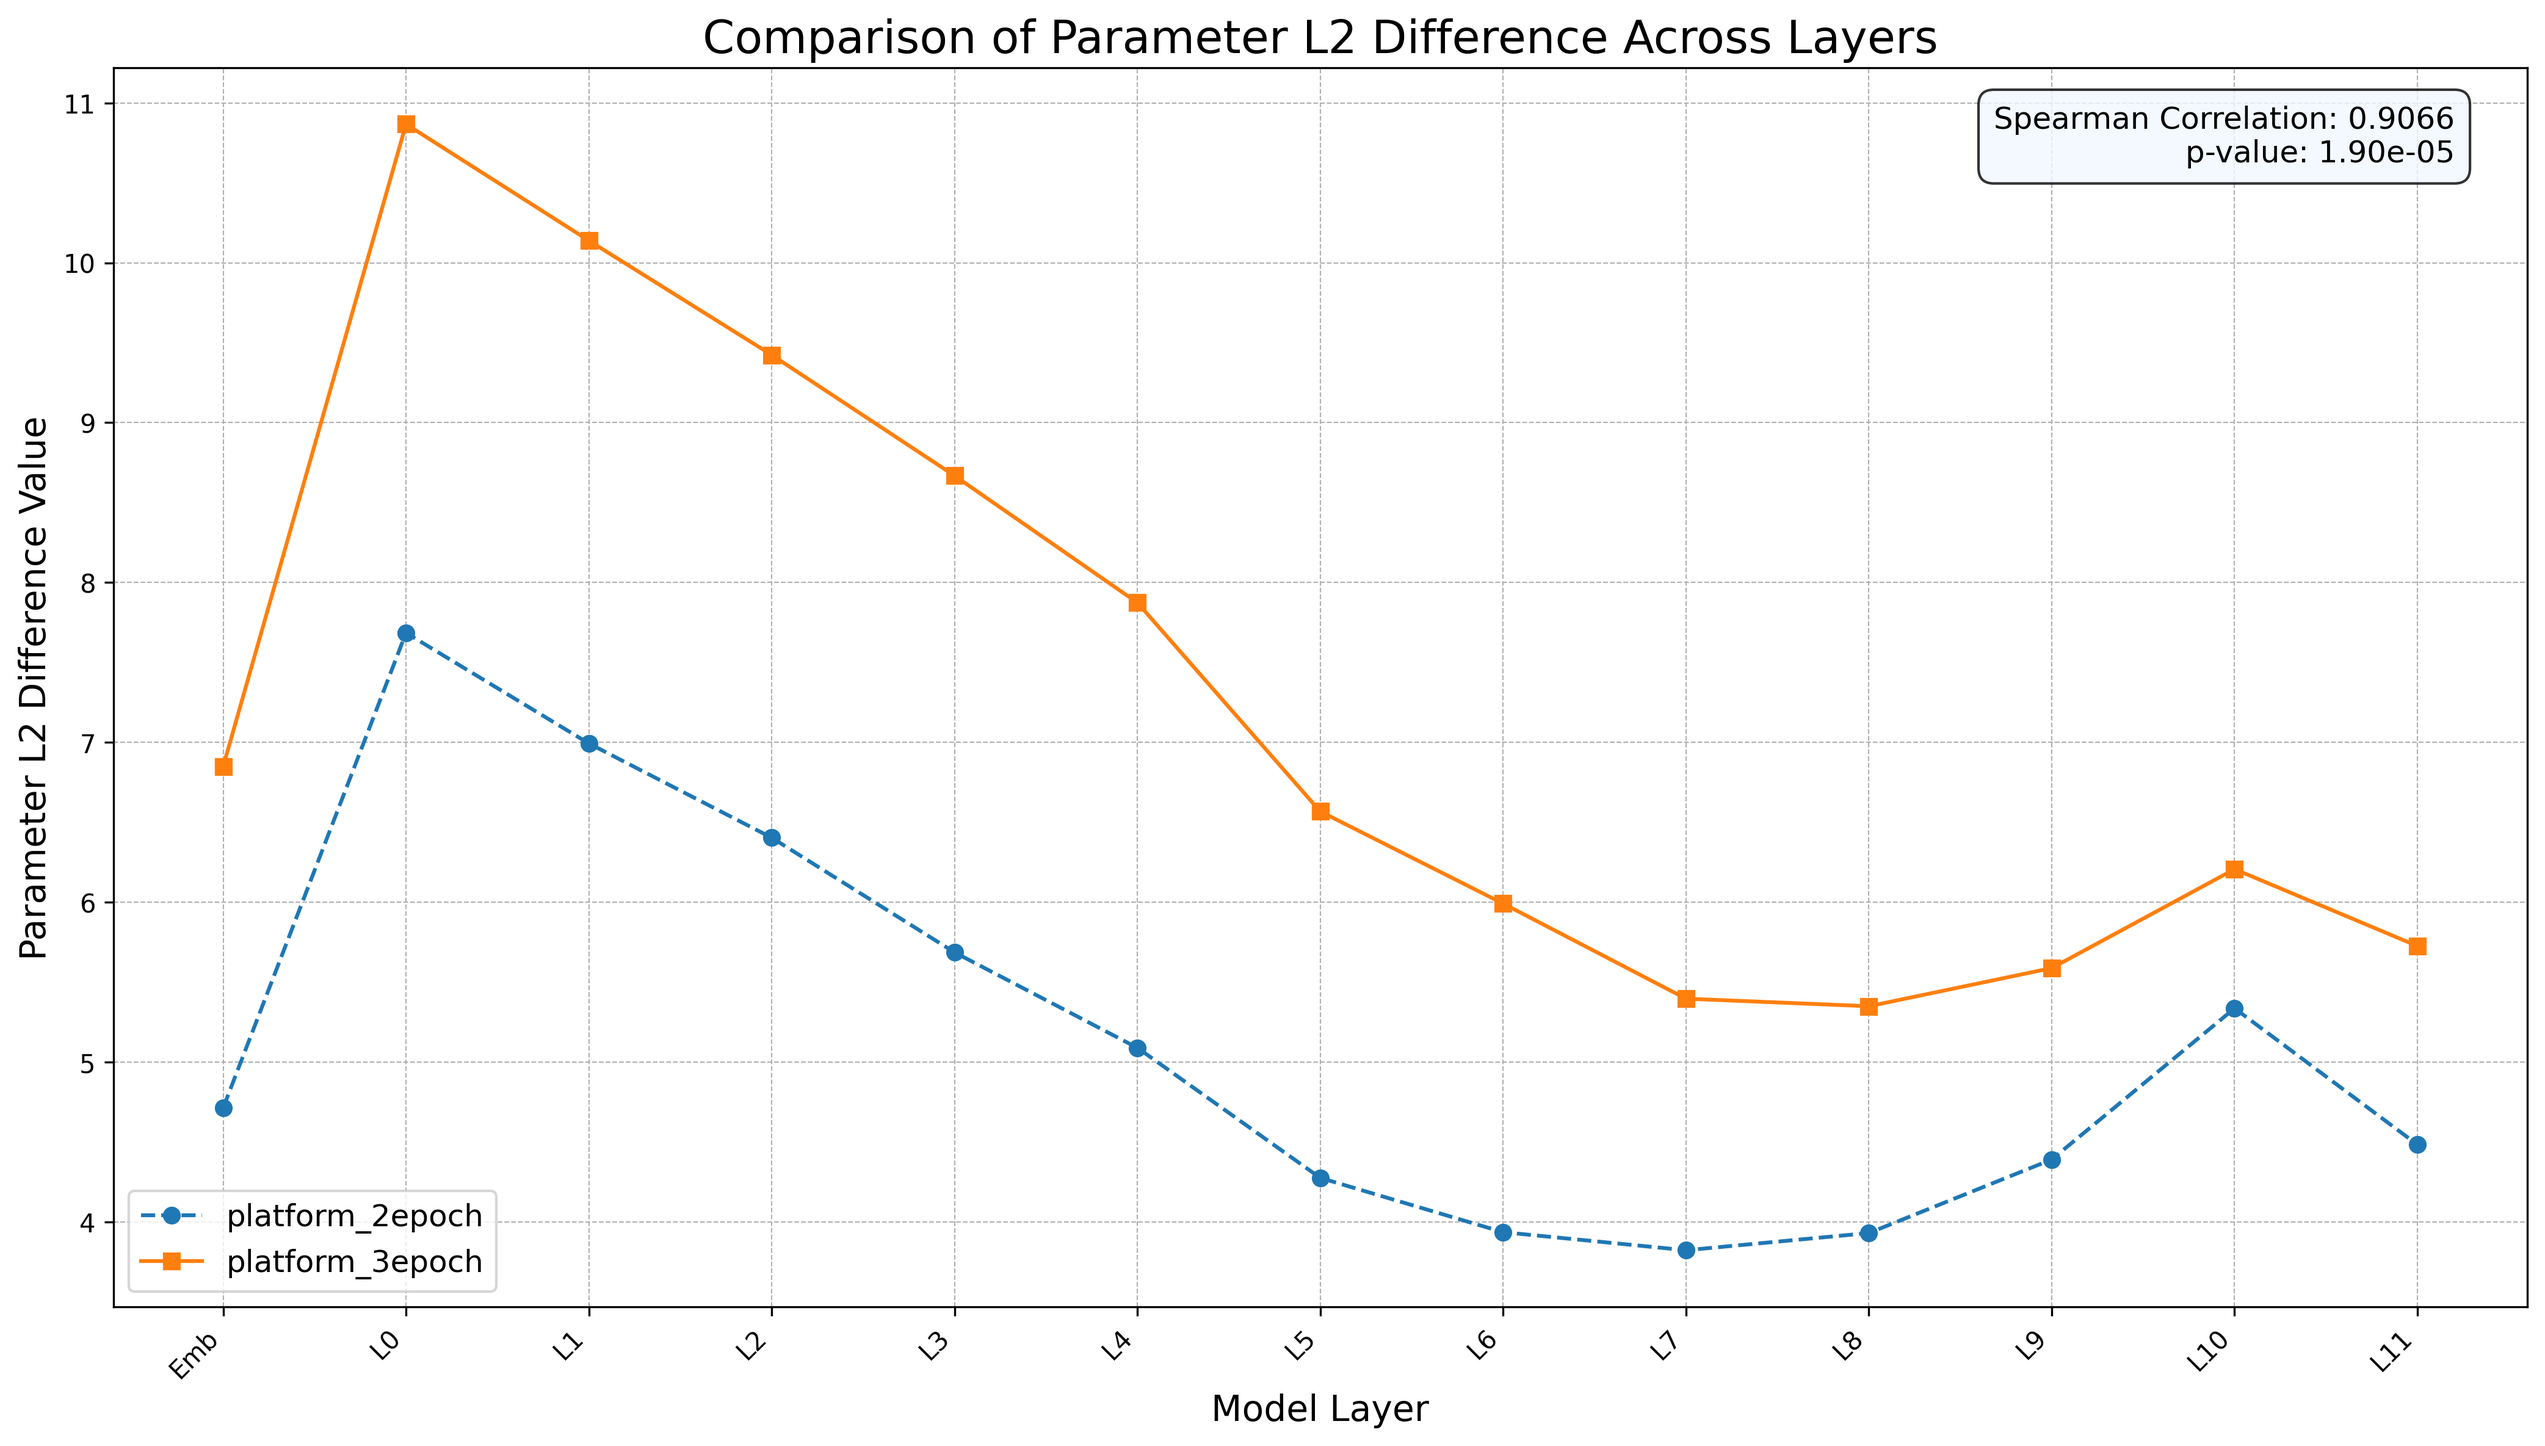
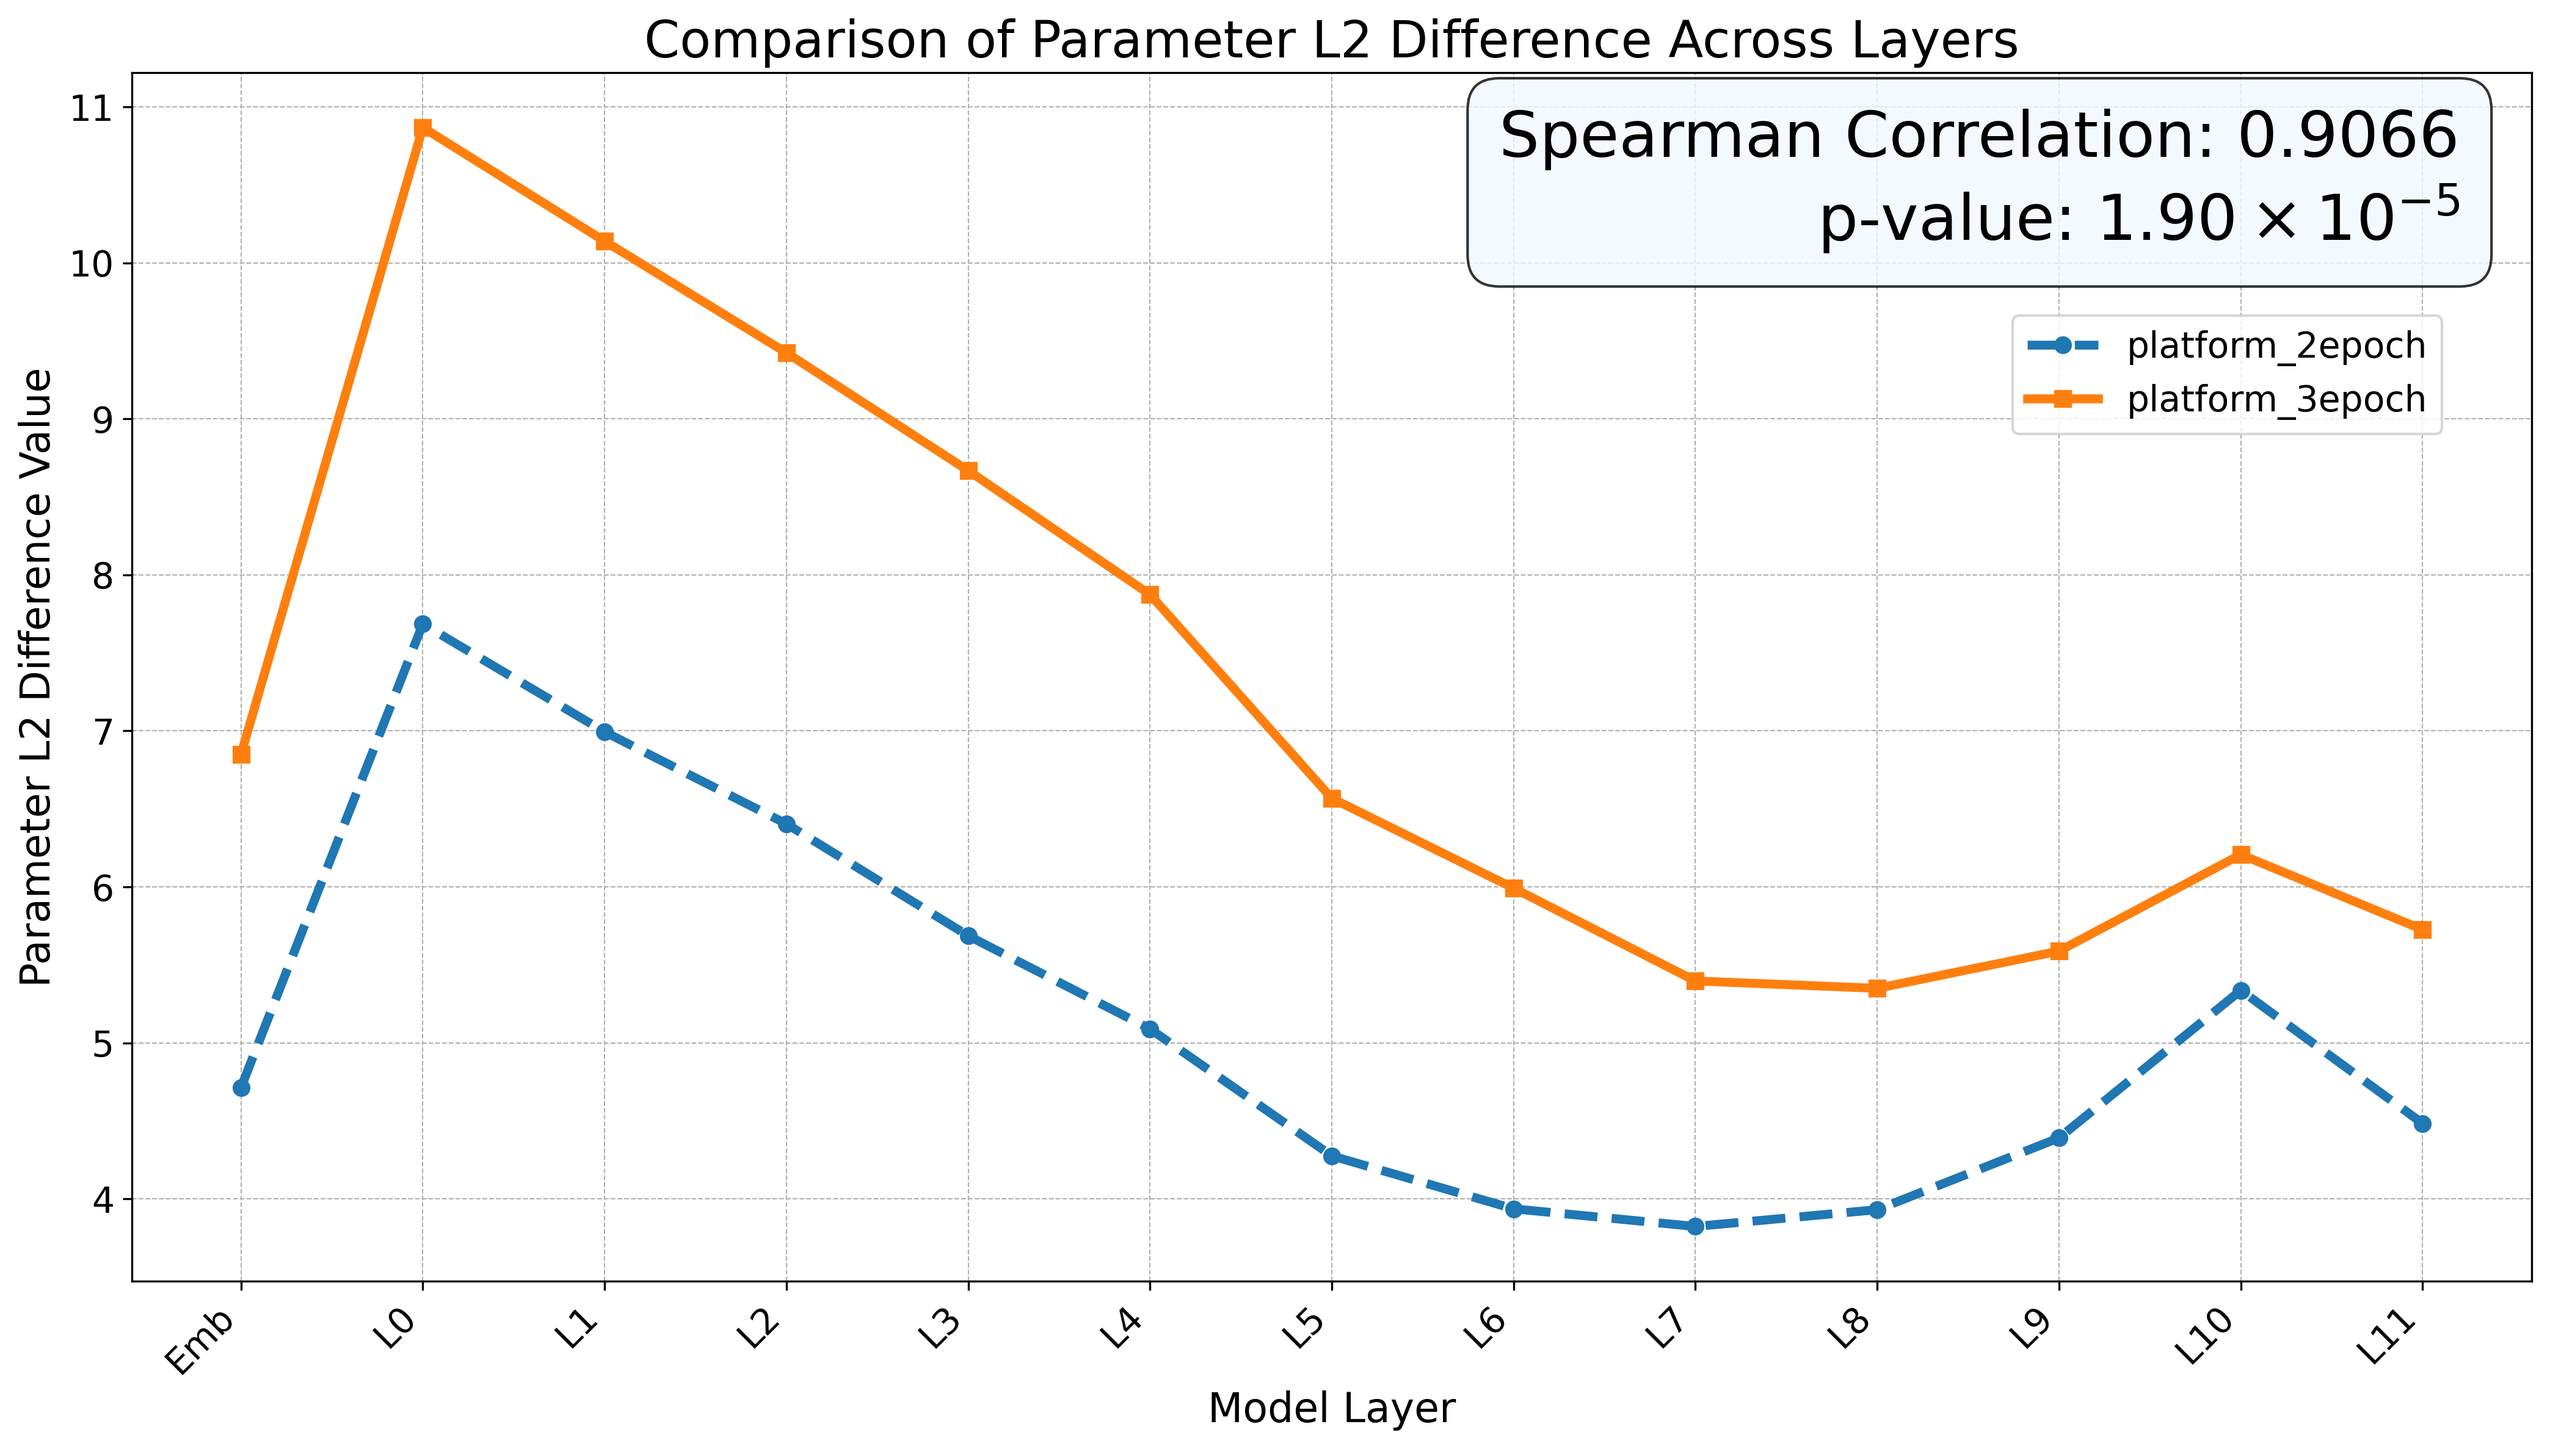
update

diff --git a/Models/ExploratoryStage/draw_spearman_correlation.py b/Models/ExploratoryStage/draw_spearman_correlation.py
@@ -4,45 +4,27 @@ import re
 import matplotlib.pyplot as plt
 
 def natural_sort_key(s):
-    """
-    Creates a key for natural sorting to ensure layers are ordered correctly.
-    e.g. "vivit.encoder.layer.10" -> ("vivit.encoder.layer.", 10)
-    """
+    """Creates a key for natural sorting."""
     match = re.match(r'^(.*?)(\d+)$', s)
     if match:
         prefix, number = match.groups()
         return (prefix, int(number))
-    return (s, -1) # For keys without numbers like "embeddings"
+    return (s, -1)
 
 def transform_legend_label(path_string):
-    """
-    Transforms a file path into a 'gamename_nepoch' format for the plot legend.
-    Example: "./apex/0epoch/..." -> "apex_0epoch"
-    """
+    """Converts file path to gamename_nepoch format."""
     if not isinstance(path_string, str):
         return "N/A"
 
-    # Normalize path separators for consistency
     path_string = path_string.replace('\\', '/')
-    
-    # Extract game name, which is assumed to be the directory before the epoch folder
-    # e.g., in './game/1epoch/file.json', parts would be ['.', 'game', '1epoch', 'file.json']
     parts = path_string.split('/')
     gamename = parts[-3] if len(parts) >= 3 else "unknown"
-
-    # Use regex to find the 'nepoch' string
     match = re.search(r'(\d+epoch)', path_string)
     if match:
-        epoch_str = match.group(1)
-        return f"{gamename}_{epoch_str}"
-    
-    return path_string # Fallback
+        return f"{gamename}_{match.group(1)}"
+    return path_string
 
 def plot_from_json(file_path, output_dir):
-    """
-    Reads data from a specified JSON file, plots a comparison graph,
-    and saves it to the specified output directory.
-    """
     print(f"Processing '{file_path}'...")
     try:
         with open(file_path, 'r', encoding='utf-8') as f:
@@ -54,7 +36,6 @@ def plot_from_json(file_path, output_dir):
         print(f"Error: The file '{file_path}' is not a valid JSON file.")
         return
 
-    # Extract data, using .get() for safety
     shared_layers = data.get("shared_layers", [])
     param_l2_diff_file1 = data.get("param_l2_diff_file1", {})
     param_l2_diff_file2 = data.get("param_l2_diff_file2", {})
@@ -62,79 +43,114 @@ def plot_from_json(file_path, output_dir):
     correlation = spearman_stats.get("correlation")
     p_value = spearman_stats.get("p_value")
 
-    # The layers in the JSON are already naturally sorted by the previous script
     values1 = [param_l2_diff_file1.get(layer, 0) for layer in shared_layers]
     values2 = [param_l2_diff_file2.get(layer, 0) for layer in shared_layers]
 
-    # Shorten the X-axis labels for better readability
     short_labels = [
-        label.replace("vivit.encoder.layer.", "L").replace("embeddings", "Emb") 
+        label.replace("vivit.encoder.layer.", "L").replace("embeddings", "Emb")
         for label in shared_layers
     ]
-    
+
     legend_label1 = transform_legend_label(data.get("file1"))
     legend_label2 = transform_legend_label(data.get("file2"))
 
-    # Create the plot
     fig, ax = plt.subplots(figsize=(14, 8))
+    ax.plot(short_labels, values1, marker='o', linestyle='--', label=legend_label1, linewidth=3.5)
+    ax.plot(short_labels, values2, marker='s', linestyle='-', label=legend_label2, linewidth=3.5)
 
-    # Plot the two line graphs
-    ax.plot(short_labels, values1, marker='o', linestyle='--', label=legend_label1)
-    ax.plot(short_labels, values2, marker='s', linestyle='-', label=legend_label2)
-
-    # Style the plot
-    ax.set_title('Comparison of Parameter L2 Difference Across Layers', fontsize=18)
-    ax.set_xlabel('Model Layer', fontsize=14)
-    ax.set_ylabel('Parameter L2 Difference Value', fontsize=14)
-    ax.legend(fontsize=12)
+    ax.set_title('Comparison of Parameter L2 Difference Across Layers', fontsize=20)
+    ax.set_xlabel('Model Layer', fontsize=16)
+    ax.set_ylabel('Parameter L2 Difference Value', fontsize=16)
     ax.grid(True, which='both', linestyle='--', linewidth=0.5)
+    ax.tick_params(axis='both', which='major', labelsize=14) 
     plt.xticks(rotation=45, ha='right')
 
-    # Add Spearman correlation annotation
+    # Dynamic legend placement under stats box
+    legend_y = 0.97
+    inv = ax.transAxes.inverted()
+
     if correlation is not None and p_value is not None:
+        if (p_value < 0.001) and (p_value!=0):
+            p_val_str = f"{p_value:.2e}"
+            mantissa, exponent = p_val_str.split('e')
+            exponent_val = int(exponent)
+            p_text = fr"${mantissa} \times 10^{{{exponent_val}}}$"
+        else:
+            p_text = f"{p_value:.4f}"
+
         stats_text = (f"Spearman Correlation: {correlation:.4f}\n"
-                      f"p-value: {p_value:.2e}")
+                      f"p-value: {p_text}")
         props = dict(boxstyle='round,pad=0.5', facecolor='aliceblue', alpha=0.8)
-        ax.text(0.97, 0.97, stats_text, transform=ax.transAxes, fontsize=12,
-                verticalalignment='top', horizontalalignment='right', bbox=props)
+
+        text_obj = ax.text(0.97, 0.97, stats_text, transform=ax.transAxes, fontsize=25,
+                           verticalalignment='top', horizontalalignment='right', bbox=props)
+
+        plt.draw()
+        bbox = text_obj.get_window_extent(renderer=fig.canvas.get_renderer())
+        bbox_ax = inv.transform(bbox)
+        legend_y = bbox_ax[0, 1] - 0.02
+
+
+        def overlaps_line(y_anchor):
+            legend_height = 0.08
+            y_range = (y_anchor - legend_height, y_anchor)
+            x_range = (0.75, 1.0)
+
+            x_mapping = {label: idx for idx, label in enumerate(short_labels)}
+
+            for line in ax.lines:
+                x_data = line.get_xdata()
+                y_data = line.get_ydata()
+                for x_val, y_val in zip(x_data, y_data):
+                    if isinstance(x_val, str):
+                        if x_val not in x_mapping:
+                            continue
+                        x_val = x_mapping[x_val]
+                    x_ax, y_ax = ax.transData.transform((x_val, y_val))
+                    x_ax, y_ax = inv.transform((x_ax, y_ax))
+                    if x_range[0] <= x_ax <= x_range[1] and y_range[0] <= y_ax <= y_range[1]:
+                        return True
+            return False
+
+        while overlaps_line(legend_y) and legend_y > 0.1:
+            legend_y -= 0.05
+
+    if legend_y <= 0.1:
+        ax.legend(loc='lower right', fontsize=14)
+    else:
+        ax.legend(loc='upper right', bbox_to_anchor=(0.97, legend_y), fontsize=14)
 
     plt.tight_layout()
 
-    # Save the plot
     base_name = os.path.basename(file_path)
     file_name_without_ext = os.path.splitext(base_name)[0]
     output_filename = f"{file_name_without_ext}.png"
     output_path = os.path.join(output_dir, output_filename)
-    
+
     try:
         plt.savefig(output_path, dpi=300, bbox_inches='tight')
         print(f"Plot successfully saved to: {output_path}\n")
     except Exception as e:
         print(f"Error saving plot: {e}\n")
-    
-    plt.close(fig) # Close the figure to free up memory
+
+    plt.close(fig)
 
 def main():
-    """
-    Finds all correlation JSON files in the 'spearman_results' directory,
-    and generates a plot for each one.
-    """
     input_dir = "spearman_results"
     output_dir = "spearman_plots"
-    
+
     if not os.path.isdir(input_dir):
         print(f"Error: Input directory '{input_dir}' not found.")
         print("Please run the data generation script first to create the results.")
         return
 
     os.makedirs(output_dir, exist_ok=True)
-    
     json_files = [f for f in os.listdir(input_dir) if f.endswith('_corr.json')]
-    
+
     if not json_files:
         print(f"No JSON files found in '{input_dir}'.")
         return
-        
+
     print(f"Found {len(json_files)} files to plot.")
     for filename in json_files:
         file_path = os.path.join(input_dir, filename)
